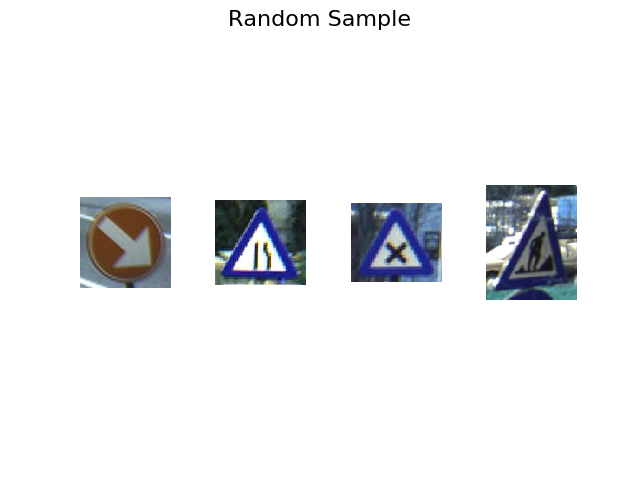
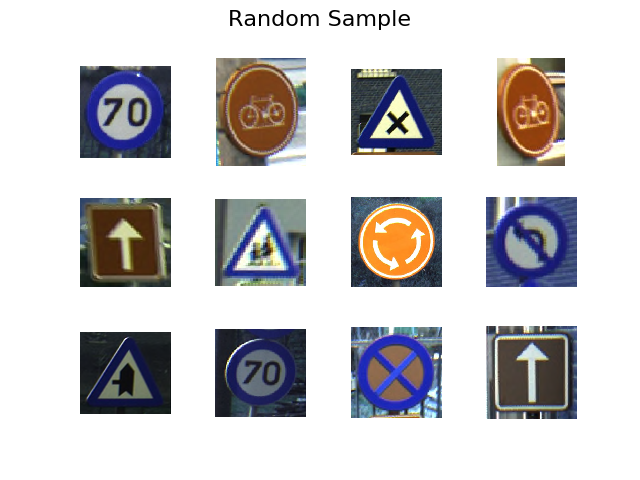
Update

diff --git a/think.py b/think.py
@@ -5,11 +5,13 @@ Tensor Flow examples.
 import os
 import sys
 import typing
+import random
 import logging
 
 from slugify import slugify
 from functools import lru_cache
 
+import cv2
 import skimage
 import tensorflow as tf
 
@@ -431,7 +433,7 @@ class DatasetSampleDiagram(DatasetDiagram):
 
     TITLE = "Random Sample"
 
-    ROWS = 1
+    ROWS = 3
     COLS = 4
 
     def draw(self) -> None:
@@ -439,12 +441,11 @@ class DatasetSampleDiagram(DatasetDiagram):
         Public method to draw histograms.
         """
         logger.debug("Drawing Sample | sf_train=%s | sf_test=%s", self.train_set, self.test_set)
-        import random
-        import cv2
-        for i, image in enumerate(random.sample(self.train_set.images, self.COLS)):
-            img = cv2.imread(image.path)
-            self.axis[i].imshow(img)
-            self.axis[i].axis('off')
+        sample = random.sample(self.train_set.images, self.COLS * self.ROWS)
+        for i in range(self.ROWS):
+            for j in range(self.COLS):
+                self.axis[i][j].imshow(cv2.imread(sample.pop().path))
+                self.axis[i][j].axis('off')
         self.figure.subplots_adjust(wspace=0.5)
         Diagram.draw(self)
 
